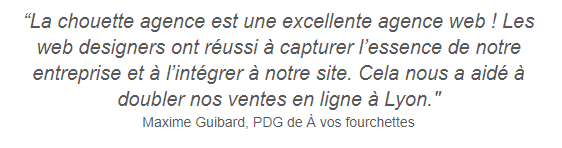
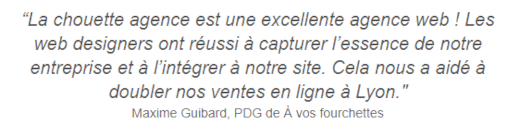
Mise en place balise google search

diff --git a/P4_02_codesource/index.html b/P4_02_codesource/index.html
@@ -48,9 +48,7 @@
 						<a href="index.html">Accueil</a>
 					</li>
 					<li>
-					</li>
-					<li>
-						<a href="page2.html">page2 &gt;</a>
+						<a href="page2.html">Contact</a>
 					</li>
 				</ul>
 			</div>
@@ -242,45 +240,6 @@
 						<div class="text-center">
 							<a class="social" href="index.html"><span class="fa fa-instagram icon-md"></span></a>
 						</div>
-					</div>
-				</div>
-				<div class="row">
-					<div class="col-sm-4">
-						Partenaires
-							<ul>
-								<li><a href="voiture.com">voiture.com</a></li>
-								<li><a href="pizza.com">pizza.com</a></li>
-								<li><a href="matoiture.com">matoiture.com</a></li>
-								<li><a href="immobilierseo.com">immobilierseo.com</a></li>
-							</ul>		
-					</div>
-					<div class="col-sm-4">
-						Annuaires liste 1
-						<ul>
-							<li><a href="annuaireagence.com">annuaireagence.com</a></li>
-							<li><a href="annuaireseo.com">annuaireseo.com</a></li>
-							<li><a href="annuairemarketing.com">annuairemarketing.com</a></li>
-							<li><a href="123seoture.com">123seo.com</a></li>
-							<li><a href="123site.com">123site.com</a></li>
-							<li><a href="annuairewordpress.com">annuairewordpress.com</a></li>
-							<li><a href="listeagence.com">listeagence.com</a></li>
-							<li><a href="meilleuresagencesparis.com">meilleuresagencesparis.com</a></li>
-							<li><a href="listeseo.com">listeseo.com</a></li>
-						</ul>
-					</div>
-					<div class="col-sm-4">
-						Annuaires liste 2
-						<ul>
-							<li><a href="betterseo.com">betterseo.com</a></li>
-							<li><a href="ameliorerseo.com">ameliorerseo.com</a></li>
-							<li><a href="seojuicelien.com">seojuicelien.com</a></li>
-							<li><a href="meilleursliens.com">meilleursliens.com</a></li>
-							<li><a href="liensagogo.com">liensagogo.com</a></li>
-							<li><a href="backlink.com">backlink.com</a></li>
-							<li><a href="linkjuiceannuaire.com">linkjuiceannuaire.com</a></li>
-							<li><a href="remontersurgoogle.com">remontersurgoogle.com</a></li>
-							<li><a href="vraiseofiable.com">vraiseofiable.com</a></li>
-						</ul>
 					</div>
 				</div>
 			</div>

diff --git a/P4_02_codesource/page2.html b/P4_02_codesource/page2.html
@@ -6,10 +6,10 @@
     <meta name="viewport" content="width=device-width, initial-scale=1.0, viewport-fit=cover">
     <link rel="shortcut icon" type="image/png" href="favicon.jpg">
     
-	<link rel="stylesheet" type="text/css" href="./css/bootstrap.min.css">
+	<link rel="stylesheet" type="text/css" href="./css/bootstrap.css">
 	<link rel="stylesheet" type="text/css" href="style.css">
-	<link rel="stylesheet" type="text/css" href="./css/font-awesome.min.css">
-	<link rel="stylesheet" type="text/css" href="./css/et-line.min.css">
+	<link rel="stylesheet" type="text/css" href="./css/font-awesome.css">
+	<link rel="stylesheet" type="text/css" href="./css/et-line.css">
 	
     
 	<script src="./js/jquery-2.1.0.min.js"></script>
@@ -32,9 +32,10 @@
 <!-- bloc-0 -->
 <div class="bloc bgc-white l-bloc " id="bloc-0">
 	<div class="container bloc-sm">
+
 		<nav class="navbar row">
 			<div class="navbar-header">
-				<a class="navbar-brand" href="index.html"><img src="img/la-chouette-agence.png" alt="atlanta web design logo" height="40" /></a>
+				<a class="navbar-brand" href="index.html"><img src="img/la-chouette-agence.png" alt="paris web design logo agence web meilleure agence" height="40" /></a>
 				<button id="nav-toggle" type="button" class="ui-navbar-toggle navbar-toggle" data-toggle="collapse" data-target=".navbar-1">
 					<span class="sr-only">Toggle navigation</span><span class="icon-bar"></span><span class="icon-bar"></span><span class="icon-bar"></span>
 				</button>
@@ -45,9 +46,7 @@
 						<a href="index.html">Accueil</a>
 					</li>
 					<li>
-					</li>
-					<li>
-						<a href="page2.html">page2 &gt;</a>
+						<a href="page2.html">Contact</a>
 					</li>
 				</ul>
 			</div>

diff --git a/P4_02_codesource/css/bootstrap.css b/P4_02_codesource/css/bootstrap.css
@@ -103,8 +103,14 @@ sub {
 }
 
 img {
-    border: 0
+    border: 0;
 }
+
+.citation{
+    width: 100%;
+}
+
+
 
 svg:not(:root) {
     overflow: hidden

diff --git a/origine_website/google89f5943b28831f0f.html b/origine_website/google89f5943b28831f0f.html
@@ -1,0 +1,1 @@
+google-site-verification: google89f5943b28831f0f.html
